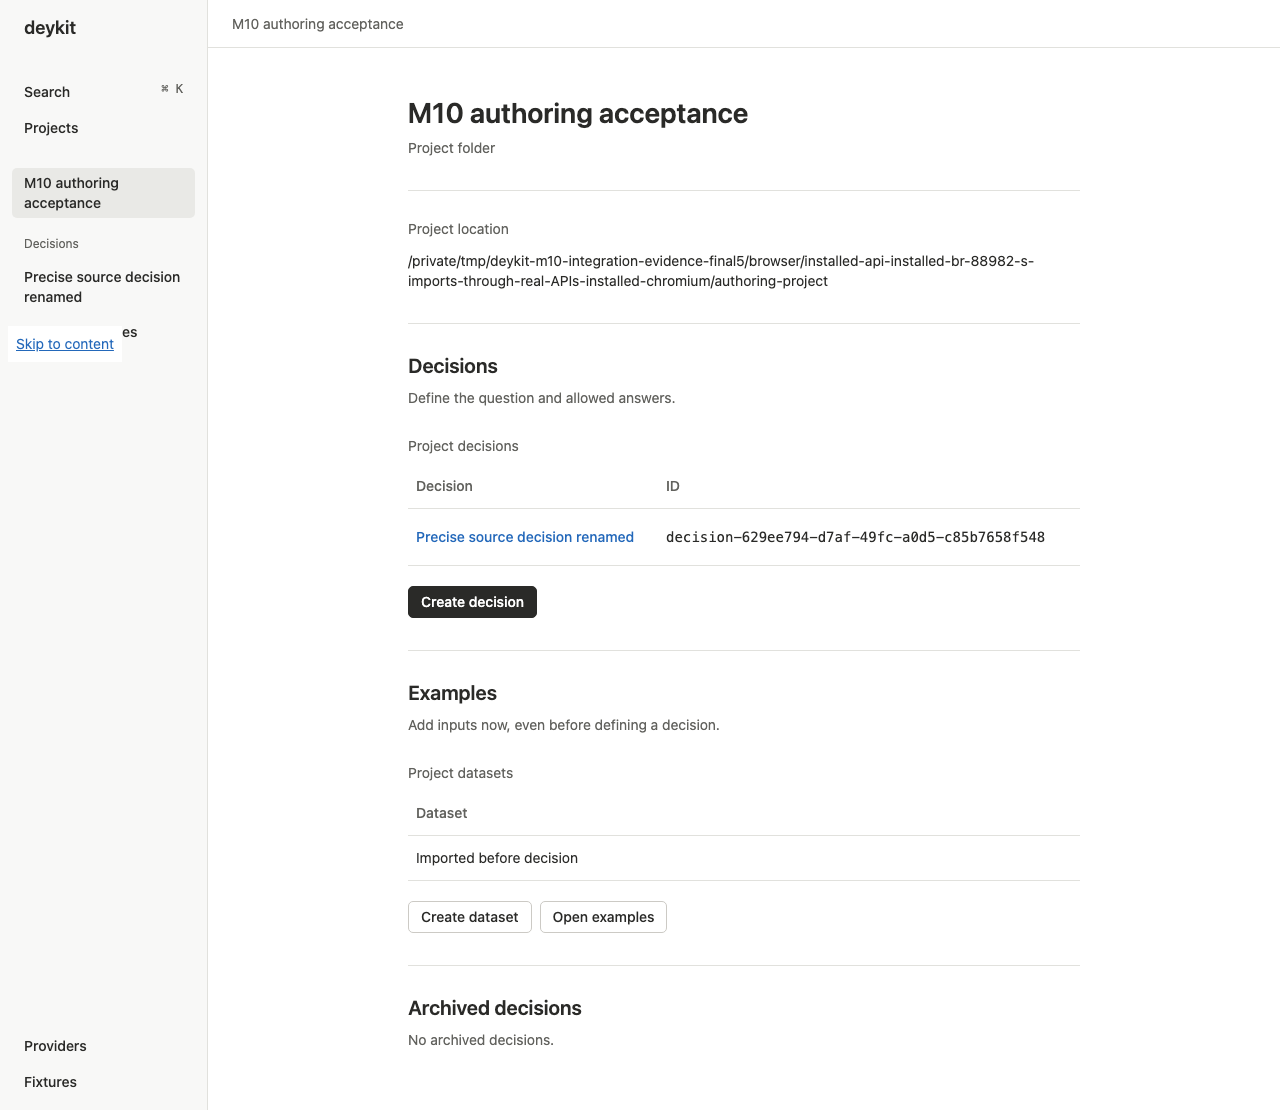
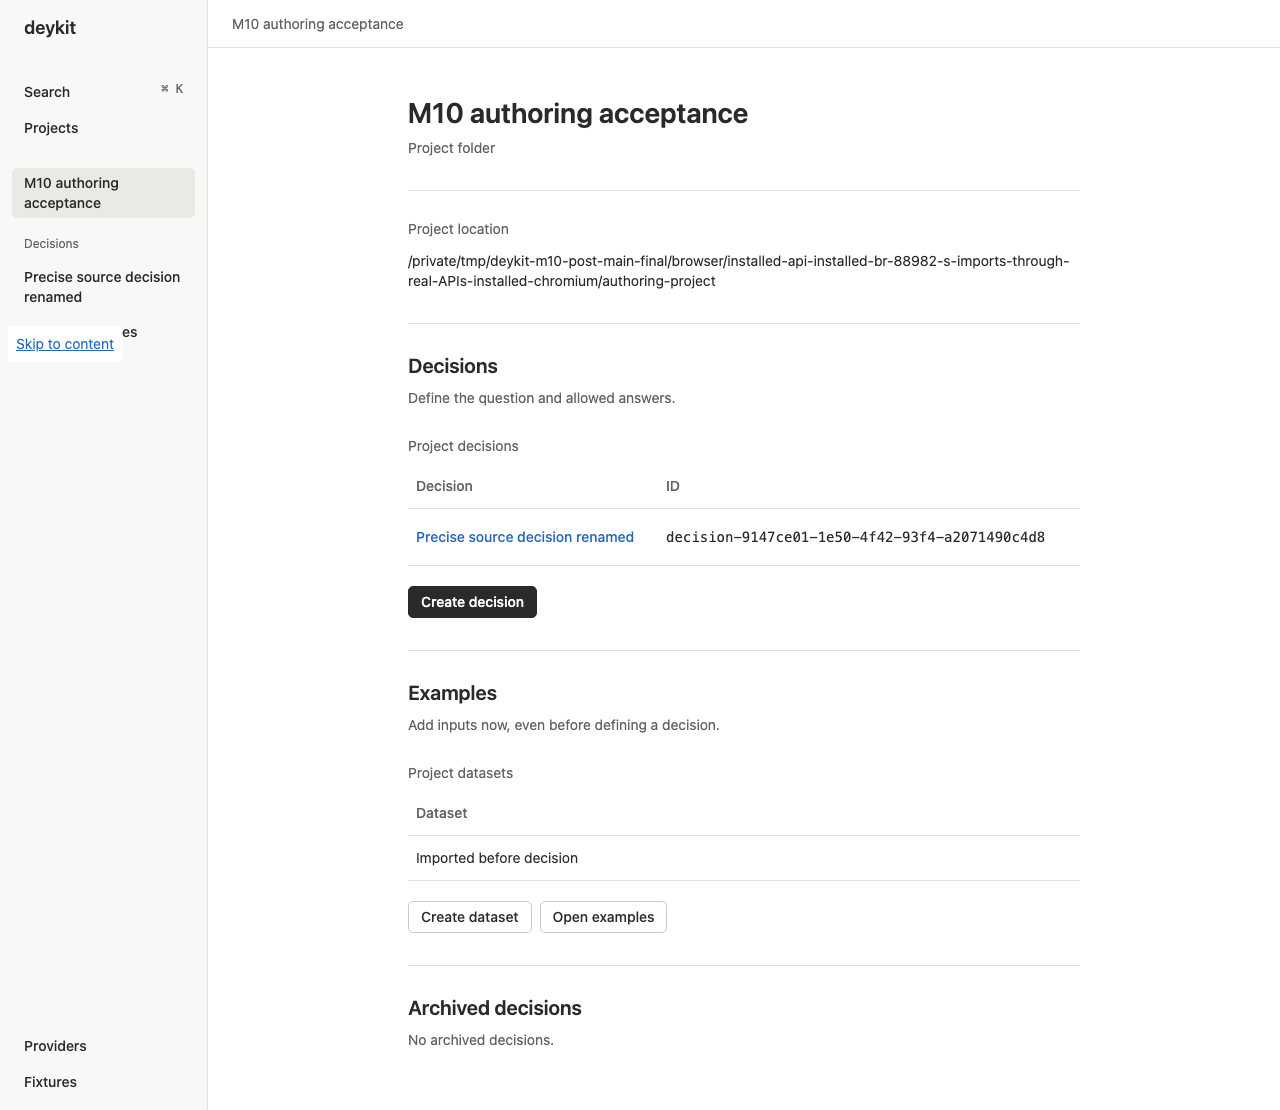
Qualify current-main browser workflows and record final evidence

Changed region(s): [[0.3125, 0.2144, 0.8438, 0.2757], [0.5938, 0.4595, 0.8125, 0.4901]]

diff --git a/frontend/tests/installed-api.spec.ts b/frontend/tests/installed-api.spec.ts
@@ -755,6 +755,14 @@ async function runInstalledProviderFixtureTail({
   await enterPhase("Responsive 320px and reduced-motion review");
   await page.setViewportSize({ width: 320, height: 800 });
   await page.emulateMedia({ reducedMotion: "reduce" });
+  // Resize listeners close the mobile menu. Let their render settle before
+  // opening it, including in the full workflow with the installed browser clock.
+  await page.evaluate(
+    () =>
+      new Promise<void>((resolve) => {
+        requestAnimationFrame(() => requestAnimationFrame(() => resolve()));
+      }),
+  );
   expect(
     await page.evaluate(
       () => matchMedia("(prefers-reduced-motion: reduce)").matches,
@@ -1759,12 +1767,15 @@ test("installed shell recovers a lost authored-demo response without duplicate w
 
   await page.reload();
   await expect(
-    page.getByRole("heading", { name: "Welcome to deykit." }),
+    page.getByRole("heading", { name: "Sandbox", exact: true }),
   ).toBeVisible();
   await page
     .getByRole("navigation", { name: "Workspace" })
     .getByRole("button", { name: "Projects", exact: true })
     .click();
+  await expect(
+    page.getByRole("heading", { name: "Welcome to deykit." }),
+  ).toBeVisible();
   const openMarkupProject = page.getByRole("button", {
     name: `Open project folder: ${markupName}`,
   });

diff --git a/architecture/browser-authoring-verification.md b/architecture/browser-authoring-verification.md
@@ -1,31 +1,50 @@
 # M10 integration verification — 2026-10-11
 
 This is local integration evidence for `codex/m10-browser-authoring`, not a claim
-that M10 has been merged into main or that the hosted CI/platform gates passed.
-The current main head `fc3d2fb` was already an ancestor. A normal merge pull of
+that this PR has been merged or that the hosted CI/platform gates passed. Main
+already received the M10 implementation through PR #48 during this session.
+The initial main head `fc3d2fb` was already an ancestor. A normal merge pull of
 origin M10 preserved both the local authoring fixes and merged PR #47, producing
 `22cf7d9`. Merging `origin/main` then reported already up to date. No rebase or
 force push was used.
+
+While checks ran, PR #48 merged the M10 implementation into main, advancing it
+to `d35d188`. A second normal merge produced `d82365f`. Conflicts were resolved
+by preserving main's stronger archive receipt adoption, page-lifetime ownership,
+navigation-before-refresh ordering, and shared provider/fixture browser tail.
+The earlier effect-based local repair was superseded by those main fixes. The
+remaining diff to main adds the two regression tests, a confirmed overview
+screenshot capture, the shell reload and resize-readiness oracle corrections,
+and this evidence.
 
 ## Integration repair
 
 After a lost archive/restore response, an acknowledged exact retry previously
 called the parent navigation callback before React published the confirmed state
 to the dirty guard. The parent could remove the active decision before overview
-navigation was admitted. The callback now runs in an effect after guard
-registration with the confirmed state. Two regressions cover archive and restore,
+navigation was admitted. An initial local fix deferred the callback until guard registration.
+The subsequent
+main merge superseded that fix with receipt adoption and a guard reading current
+request refs before navigation. Two retained regressions cover archive and restore,
 unknown-outcome unload protection, identical retry bodies, and admitted overview
 navigation. Reintroducing the original callback made both regressions fail.
 
-The installed browser suite also contained stale navigation names, an incorrect
+The earlier installed suite also contained stale navigation names, an incorrect
 reload-route expectation, and a Tab oracle that treated normal departure from the
-document as hidden focus. These assertions now follow the current UI. The fixture
-demo check awaits the browser's archived-list response before direct test reads.
-The frontend assets were rebuilt with the canonical bundle script.
+document as hidden focus. Main now supplies corrected shared navigation and demo
+readiness controls, and checks mobile menu focus/Tab/Escape explicitly. The remaining
+shell reload correction asserts restored Sandbox first, then Welcome after the
+Projects action. The mobile keyboard test waits two animation frames for resize
+listeners/rendering before opening Menu; its focus/Tab/Escape assertions remain.
+Final production assets match main and the canonical bundle check.
 
 ## Commands and results
 
-Commands ran serially in the assigned worktree. Python commands used
+Commands ran serially in the assigned worktree. Python checks, frontend
+tests/checks, package checks and browser checks were
+repeated after the `d82365f` merge. Dependency installation preceded that merge;
+the frontend lockfile did not change. The final installed run includes the
+subsequent test-only reload/resize fixes. Python commands used
 `UV_CACHE_DIR=/private/tmp/deykit-m10-integration-uv-cache`. The machine was macOS
 arm64 with Python 3.14.7, Node 26.11.1, npm 11.20.0, and Chromium 153.0.8010.12.
 Frontend commands ran from `frontend/`.
@@ -35,11 +54,11 @@ Frontend commands ran from `frontend/`.
 | `uv sync --locked` | Passed |
 | `nice -n 10 uv run pytest` | 1,208 passed, 21 skipped; 2,063.10 seconds |
 | `uv run ruff check .` | Passed |
-| `uv run ruff format --check .` | Passed, 339 files |
+| `uv run ruff format --check .` | Passed, 340 files |
 | `uv run mypy` | Passed, 183 source files |
 | `uv run python -m deykit.api.schema --check --output frontend/api-contracts` | Passed |
 | `npm ci --no-audit --no-fund` | Passed |
-| `npm test -- --maxWorkers=1` | 120 passed, 16 files |
+| `npm test -- --maxWorkers=1` | 121 passed, 16 files |
 | `npm run test:contracts` | 12 passed |
 | `npm run typecheck` | Passed |
 | `npm run format:check` | Passed |
@@ -48,13 +67,15 @@ Frontend commands ran from `frontend/`.
 | `uv run pytest tests/api/test_schema_assets.py tests/cli/test_serve.py tests/api/test_socket.py` | 11 passed after UI rebuild |
 | `uv build` | Wheel and sdist passed |
 | `uv run python tests/check_install.py` | Both fresh wheel/sdist installations passed outside checkout in spaced/non-ASCII paths, CLI without Node on PATH |
-| `nice -n 10 npm run test:browser -- --workers=1 --output=/private/tmp/deykit-m10-integration-evidence/browser-shell` | 6 passed |
-| `npm run test:browser:installed -- --workers=1 --output=/private/tmp/deykit-m10-integration-evidence-final5/browser` | 3 passed, 7.4 minutes; all 23 connected authoring phases completed |
+| `nice -n 10 npm run test:browser -- --workers=1 --output=/private/tmp/deykit-m10-post-main-shell` | 6 passed |
+| `npm run test:browser:installed -- --workers=1 --output=/private/tmp/deykit-m10-post-main-final/browser` | 4 passed, 7.5 minutes; all 28 connected authoring phases completed |
 | `git diff --check` | Passed |
 
-The full Python suite ran on merged baseline `22cf7d9`. Subsequent changes were the
-frontend repair, frontend tests, generated UI assets, and this evidence. No Python
-implementation/test code changed afterward. The asset/serve/socket tests and clean
+The full Python suite ran on merged baseline `22cf7d9`. Subsequent changes
+included the frontend repair, frontend tests, generated assets,
+main integration, and this evidence. The final tracked Python code, Python tests,
+`pyproject.toml`, and `uv.lock` are identical to that full-suite baseline. The
+asset/serve/socket tests and clean
 package checks were repeated after the UI rebuild; the table does not imply a
 second full Python run on the final integration commit.
 
@@ -63,12 +84,16 @@ outside checkout. Installed imports were isolated, and all 204 wheel files match
 the installation. The tracked `tests/verification/m10_installed_api_server.py`
 helper ran with that installed Python using `-I`, an isolated workspace, and a
 real loopback API origin supplied via `DEYKIT_INSTALLED_API_URL`. It uses authored
-model listing and a fake secret-store port. No live credentials or inference were
-used. The installed server itself was not tested with Node absent from PATH.
+model listing and a fake secret-store port. Test-side Python oracles used the
+installed virtual environment first on PATH.
+No live credentials or inference were used. The installed server itself was not
+tested with Node absent from PATH.
 
-The three installed tests cover revision restore after Back/unknown outcome,
-shell response-loss/reload/recent-project safety, and the connected authoring flow.
-The connected flow exercises exact decision source, imports, labels, case edits,
+The installed tests cover revision restore after Back/unknown outcome,
+the shared archive/provider/fixture/mobile tail, shell response-loss/reload/recent-
+project safety, and the connected authoring flow.
+The final suite passed all four tests. The connected flow exercises exact decision
+source, imports, labels, case edits,
 splits, archive/restore, provider setup, fixtures, and 320px/reduced-motion controls.
 The copied progress file lists injected failure responses; these are deliberate
 recovery scenarios, not unexpected failures in the passing run.
@@ -83,7 +108,7 @@ These headless Chromium captures were inspected visually:
 
 - [Confirmed restored decision in overview](browser-authoring-evidence/archive-restore-confirmed-overview.png)
 - [Fixture library at 320px](browser-authoring-evidence/authoring-narrow-320.png)
-- [23-phase browser progress](browser-authoring-evidence/authoring-progress.json)
+- [28-phase browser progress](browser-authoring-evidence/authoring-progress.json)
 - [Installed server shutdown witness](browser-authoring-evidence/shutdown.json)
 
 The narrow fixture table fits without horizontal page overflow, but long hashes
@@ -97,13 +122,17 @@ physical-device or accessibility acceptance.
   Linux/macOS/Windows and Python 3.11/3.13 matrix.
 - The recent PR #47 session documented broader installed-workflow failures: a
   registration read returned 409 and case-refresh recovery timed out. Those failed
-  artifacts remain failures. They did not recur in the final three-test passing
+  artifacts remain failures. They did not recur in the final four-test passing
   run here, which does not establish timing reliability across repeated runs or
   platforms.
+- PR #48 accepted a composite 20-phase plus shared-tail gate; its earlier
+  monolithic workflow remained failed. That evidence is not relabeled by this PR.
 - Earlier integration attempts here failed on the archive navigation race and
   stale browser assertions. One intermediate attempt was deliberately interrupted
-  after discovering further stale selectors. Only the final complete run is a
-  whole-workflow pass; none of the earlier failed/interrupted runs is relabeled.
+  after discovering further stale selectors. The first post-main run also failed
+  the stale shell reload expectation and mobile menu focus after resize. Only the
+  final complete run is a whole-workflow pass; none of the earlier failed or
+  interrupted runs is relabeled.
 - The inherited M09 controls qualification scripts had failed assertions and were
   reconciled with supplemental reads/static review; those original scripts were
   not rerun as part of this integration.
